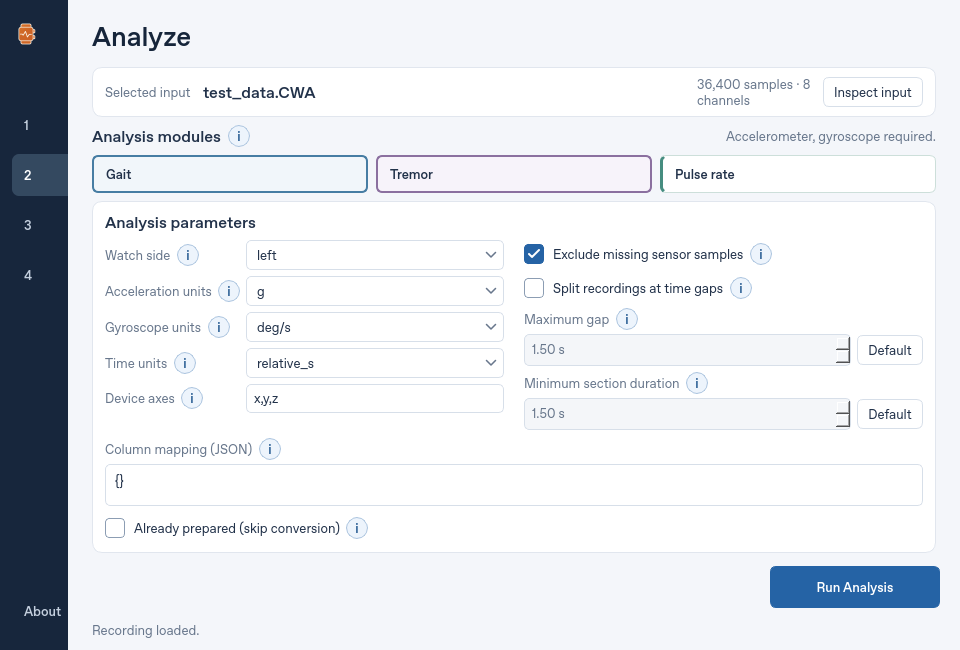
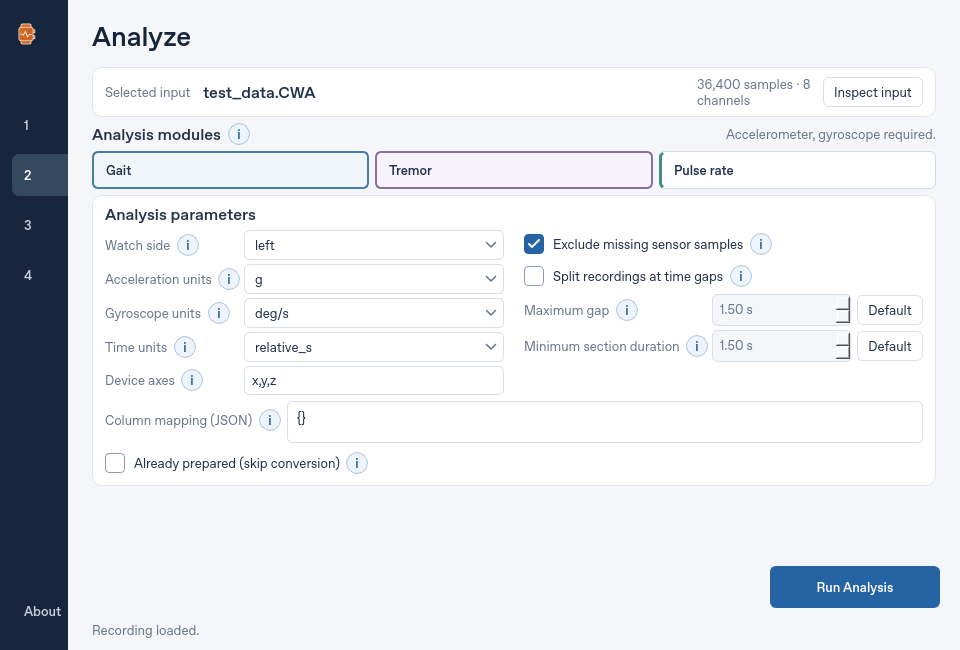
Fit Analyze parameters with taller Windows controls

diff --git a/src/paradigma_desktop/app.py b/src/paradigma_desktop/app.py
@@ -333,7 +333,7 @@ class MainWindow(QMainWindow):
         body.setObjectName("analysisBody")
         content = QVBoxLayout(body)
         content.setContentsMargins(0, 0, 4, 0)
-        content.setSpacing(8)
+        content.setSpacing(6)
         panel, input_layout = card()
         input_layout.setContentsMargins(12, 8, 12, 8)
         input_row = QHBoxLayout()
@@ -348,7 +348,7 @@ class MainWindow(QMainWindow):
         self.analysis_controls = QWidget()
         controls = QVBoxLayout(self.analysis_controls)
         controls.setContentsMargins(0, 0, 0, 0)
-        controls.setSpacing(8)
+        controls.setSpacing(6)
         self.analysis_help = {}
         module_header = QHBoxLayout()
         module_header.addWidget(self.analysis_field("Analysis modules", label("Analysis modules", "sectionTitle"), inline=True))
@@ -368,8 +368,8 @@ class MainWindow(QMainWindow):
         self.module_buttons["Gait"].setChecked(True)
         controls.addLayout(modules)
         self.settings_panel, parameters = card()
-        parameters.setContentsMargins(12, 10, 12, 10)
-        parameters.setSpacing(8)
+        parameters.setContentsMargins(12, 8, 12, 8)
+        parameters.setSpacing(6)
         parameters.addWidget(label("Analysis parameters", "sectionTitle"))
         columns = QHBoxLayout()
         columns.setSpacing(20)
@@ -378,7 +378,7 @@ class MainWindow(QMainWindow):
         for form in (left, right):
             form.setRowWrapPolicy(QFormLayout.WrapLongRows)
             form.setFieldGrowthPolicy(QFormLayout.AllNonFixedFieldsGrow)
-            form.setSpacing(6)
+            form.setSpacing(4)
         self.side = self.combo(["left", "right"])
         self.acc = self.combo(["g", "m/s^2"])
         self.gyro = self.combo(["deg/s", "rad/s"])
@@ -402,7 +402,7 @@ class MainWindow(QMainWindow):
         sections.setContentsMargins(0, 0, 0, 0)
         sections.setRowWrapPolicy(QFormLayout.WrapLongRows)
         sections.setFieldGrowthPolicy(QFormLayout.AllNonFixedFieldsGrow)
-        sections.setSpacing(6)
+        sections.setSpacing(4)
         sections.addRow(self.analysis_field("Split recordings at time gaps", self.gaps, inline=True))
         self.max_gap, self.min_segment = QDoubleSpinBox(), QDoubleSpinBox()
         self.section_reset_buttons = {}
@@ -421,7 +421,7 @@ class MainWindow(QMainWindow):
             row_layout.setContentsMargins(0, 0, 0, 0)
             row_layout.addWidget(widget, 1)
             row_layout.addWidget(reset)
-            sections.addRow(self.analysis_field(title, row, inline=False))
+            self.analysis_field(title, row, form=sections)
         right.addRow(self.segmentation_controls)
         columns.addLayout(left, 1)
         columns.addLayout(right, 1)
@@ -429,7 +429,11 @@ class MainWindow(QMainWindow):
         self.mapping = QPlainTextEdit("{}")
         self.mapping.setPlaceholderText('{"timestamp": "time", "ppg": "green"}')
         self.mapping.setFixedHeight(42)
-        parameters.addWidget(self.analysis_field("Column mapping (JSON)", self.mapping))
+        mapping_form = QFormLayout()
+        mapping_form.setRowWrapPolicy(QFormLayout.WrapLongRows)
+        mapping_form.setFieldGrowthPolicy(QFormLayout.AllNonFixedFieldsGrow)
+        self.analysis_field("Column mapping (JSON)", self.mapping, form=mapping_form)
+        parameters.addLayout(mapping_form)
         parameters.addWidget(self.analysis_field("Already prepared", self.prepared, inline=True))
         controls.addWidget(self.settings_panel)
         content.addWidget(self.analysis_controls)

diff --git a/tests/test_workspace.py b/tests/test_workspace.py
@@ -122,16 +122,23 @@ def test_run_button_remains_visible_in_compact_analysis_workspace(window):
     assert window.run_button.geometry().bottom() <= window.pages.widget(1).height()
 
 
-def test_compact_analysis_fits_all_parameters_and_uniform_help_without_scrolling(window):
+@pytest.mark.parametrize("control_minimum_height", [0, 40, 44])
+def test_compact_analysis_fits_all_parameters_and_uniform_help_without_scrolling(window, control_minimum_height):
     window.loaded(("sensor.csv", pd.DataFrame({"time": [0., 1.], "gyroscope_x": [1., 2.]})))
     window.set_modules(["gait", "tremor", "pulse_rate"])
+    # Larger native Windows control hints overflowed the previous layout even
+    # though the same fields fitted under the headless Linux font metrics.
+    for control in (window.side, window.acc, window.gyro, window.time, window.orientation,
+                    window.max_gap, window.min_segment):
+        control.setMinimumHeight(control_minimum_height)
     window.navigate(1)
     window.resize(960, 650)
     window.show()
     QTest.qWait(30)
     assert window.analysis_scroll.verticalScrollBar().maximum() == 0
     for control in (window.side, window.acc, window.gyro, window.time, window.orientation,
-                    window.gaps, window.max_gap, window.min_segment, window.mapping, window.prepared):
+                    window.gaps, window.max_gap, window.min_segment, window.mapping, window.prepared,
+                    *window.section_reset_buttons.values()):
         assert control.visibleRegion().boundingRect().contains(control.rect())
     help_buttons = [info for info, description in window.analysis_help.values()]
     assert {(info.width(), info.height()) for info in help_buttons} == {(22, 22)}

diff --git a/README.md b/README.md
@@ -77,5 +77,5 @@ pipeline publications. **About** in the app provides credits, the
 licence and a copyable BibTeX citation. [Full acknowledgement and citation files](src/paradigma_desktop/data/notices/ACKNOWLEDGEMENTS.md)
 are also included beside the Windows executable.
 
-Version **0.3.9**. Scientific processing uses the pinned official toolbox; the app's
+Version **0.3.10**. Scientific processing uses the pinned official toolbox; the app's
 regression tests check equivalent outputs for representative workflows.
